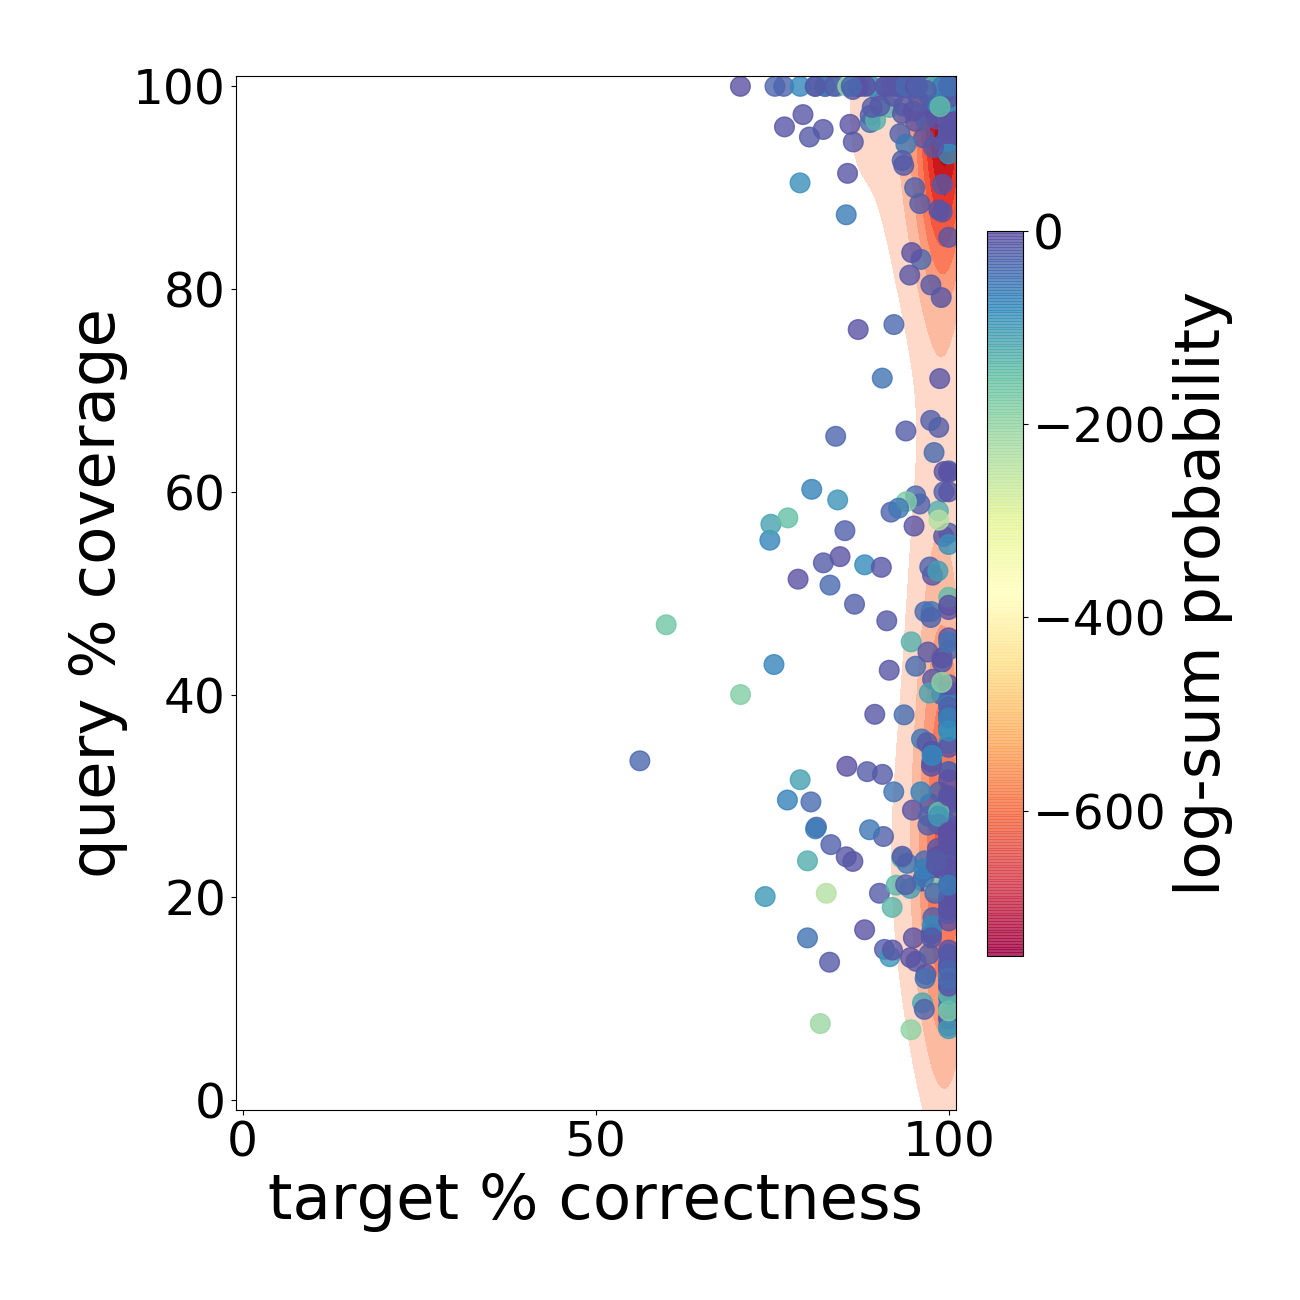
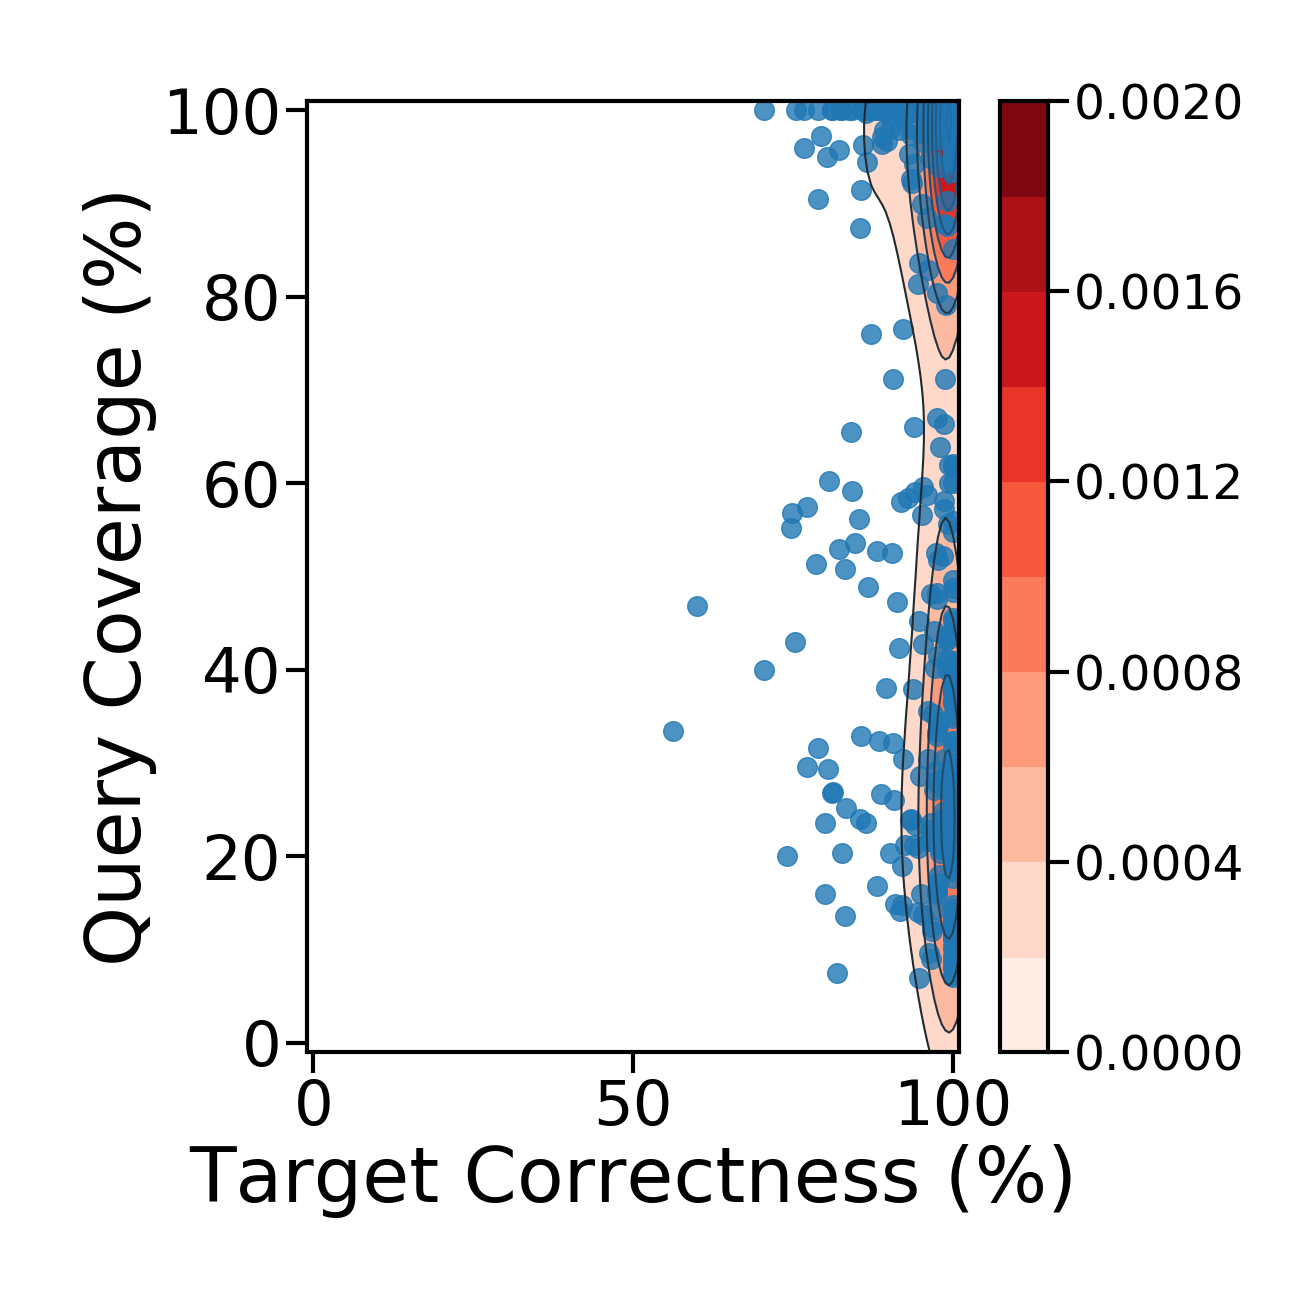
Improve figures
1) Better axis labels
2) Colour bar for probability density
3) Thicker lines
4) More clear contours

diff --git a/lib/data/helper_scripts/data_crunching/wrangle_csv.py b/lib/data/helper_scripts/data_crunching/wrangle_csv.py
@@ -1,5 +1,6 @@
 import os
 
+import matplotlib as mpl
 import matplotlib.pyplot as plt
 import numpy as np
 import pandas as pd
@@ -10,13 +11,18 @@ import utils.directory_utils as utils
 correctness_threshold = 0.7
 distance_threshold = 20
 prediction_length = 750
-primary_text_font_size = 45
-secondary_text_font_size = 35
+primary_text_font_size = 55
+secondary_text_font_size = 45
 
-if os.name == 'nt':
-    base_path = "E:\\Users\\Documents\\School Year 18-19\\Term 1\\CPSC 449\\Sealer_NN\\lib\\app\\helper_scripts\\data_crunching\\"
-else:
-    base_path = "/home/echen/Desktop/Projects/Sealer_NN/lib/app/helper_scripts/data_crunching/"
+axiswidth = 3
+ticksize = 15
+mpl.rcParams['axes.linewidth'] = axiswidth
+mpl.rcParams['xtick.major.size'] = ticksize
+mpl.rcParams['xtick.major.width'] = axiswidth
+mpl.rcParams['ytick.major.size'] = ticksize
+mpl.rcParams['ytick.major.width'] = axiswidth
+
+base_path = "E:\\Users\\Documents\\School_Year_18-19\\Term_1\\CPSC_449\\Sealer_NN\\lib\\data\\helper_scripts\\data_crunching\\"
 
 def evaluate_gap(df, predict_from_left):
     query_coverage = []
@@ -80,20 +86,20 @@ def plot_comparison_scatter(data, file_path):
     x = data["target_gap_correctness"] * 100
     y = data["target_correctness"] * 100
 
-    sns.kdeplot(x, y, cmap="Reds", shade=True, shade_lowest=False)
-    points = plt.scatter(x, y, s=200, alpha=0.8)
+    sns.kdeplot(x, y)
+    sns.kdeplot(x, y, cmap="Reds", shade=True, shade_lowest=False, cbar=True)
+    plt.scatter(x, y, s=200, alpha=0.8)
 
     plt.xlim((-1, 101))
     plt.ylim((-1, 101))
-    plt.xlabel('GapPredict % correctness')
-    plt.ylabel('Sealer % correctness')
+    plt.xlabel('GapPredict Correctness (%)')
+    plt.ylabel('Sealer Correctness (%)')
 
     plt.tight_layout()
     fig = plt.savefig(file_path)
     plt.close(fig)
 
 def plot_scatter(data, file_path):
-    cbar_text_font_size = 35
     plt.rc('xtick', labelsize=secondary_text_font_size)
     plt.rc('ytick', labelsize=secondary_text_font_size)
     font = {
@@ -108,18 +114,16 @@ def plot_scatter(data, file_path):
     x = data["target_gap_correctness"]*100
     y = data["query_gap_coverage"]*100
 
-    sns.kdeplot(x, y, cmap="Reds", shade=True, shade_lowest=False)
-    points = plt.scatter(x, y, c=data["log-sum-probability"], alpha=0.8, s=200, cmap="Spectral")
+    sns.kdeplot(x, y)
+    ax = sns.kdeplot(x, y, cmap="Reds", shade=True, shade_lowest=False, cbar=True)
+    ax.figure.axes[-1].tick_params(axis='both', which='major', labelsize=35)
 
-    cbar = plt.colorbar(points, fraction=0.046, pad=0.04)
-    cbar.ax.tick_params(labelsize=cbar_text_font_size)
-    cbar.set_label("log-sum probability")
+    plt.scatter(x, y, alpha=0.8, s=200)
 
-    plt.clim(0, -750)
     plt.xlim((-1, 101))
     plt.ylim((-1, 101))
-    plt.xlabel('target % correctness')
-    plt.ylabel('query % coverage')
+    plt.xlabel('Target Correctness (%)')
+    plt.ylabel('Query Coverage (%)')
 
     plt.tight_layout()
     fig = plt.savefig(file_path)
@@ -165,14 +169,22 @@ def compute_metrics(gap_left, gap_right, left_subflank, right_subflank, id):
     fixed_pass = columns_to_plot[(columns_to_plot.is_fixed == 1) & (columns_to_plot.gap_pass == 1)]
     fixed_fail = columns_to_plot[(columns_to_plot.is_fixed == 1) & (columns_to_plot.gap_pass == 0)]
     total_fixed = len(fixed_pass) + len(fixed_fail)
+    fixed_zero_pass = fixed_pass[(fixed_pass.query_gap_coverage < 0.05) & (fixed_pass.target_gap_correctness < 0.05)]
+    fixed_zero_fail = fixed_fail[(fixed_fail.query_gap_coverage < 0.05) & (fixed_fail.target_gap_correctness < 0.05)]
     print("Fixed Pass = " + str(len(fixed_pass)) + "/" + str(total_fixed))
     print("Fixed Fail = " + str(len(fixed_fail)) + "/" + str(total_fixed))
+    print("Fixed Zero Pass = " + str(len(fixed_zero_pass)) + "/" + str(len(fixed_pass)))
+    print("Fixed Zero Fail = " + str(len(fixed_zero_fail)) + "/" + str(len(fixed_fail)))
 
     unfixed_pass = columns_to_plot[(columns_to_plot.is_fixed == 0) & (columns_to_plot.gap_pass == 1)]
     unfixed_fail = columns_to_plot[(columns_to_plot.is_fixed == 0) & (columns_to_plot.gap_pass == 0)]
+    unfixed_zero_pass = unfixed_pass[(unfixed_pass.query_gap_coverage < 0.05) & (unfixed_pass.target_gap_correctness < 0.05)]
+    unfixed_zero_fail = unfixed_fail[(unfixed_fail.query_gap_coverage < 0.05) & (unfixed_fail.target_gap_correctness < 0.05)]
     total_unfixed = len(unfixed_pass) + len(unfixed_fail)
     print("Unfixed Pass = " + str(len(unfixed_pass)) + "/" + str(total_unfixed))
     print("Unfixed Fail = " + str(len(unfixed_fail)) + "/" + str(total_unfixed))
+    print("Unfixed Zero Pass = " + str(len(unfixed_zero_pass)) + "/" + str(len(unfixed_pass)))
+    print("Unfixed Zero Fail = " + str(len(unfixed_zero_fail)) + "/" + str(len(unfixed_fail)))
 
     delimiter = utils.get_terminal_directory_character()
 

diff --git a/lib/data/helper_scripts/data_crunching/wrangle_sealer.py b/lib/data/helper_scripts/data_crunching/wrangle_sealer.py
@@ -1,5 +1,6 @@
 import os
 
+import matplotlib as mpl
 import matplotlib.pyplot as plt
 import numpy as np
 import pandas as pd
@@ -7,10 +8,15 @@ import seaborn as sns
 
 import utils.directory_utils as utils
 
-if os.name == 'nt':
-    base_path = "E:\\Users\\Documents\\School Year 18-19\\Term 1\\CPSC 449\\Sealer_NN\\lib\\app\\helper_scripts\\data_crunching\\"
-else:
-    base_path = "/home/echen/Desktop/Projects/Sealer_NN/lib/app/helper_scripts/data_crunching/"
+base_path = "E:\\Users\\Documents\\School_Year_18-19\\Term_1\\CPSC_449\\Sealer_NN\\lib\\data\\helper_scripts\\data_crunching\\"
+
+axiswidth = 3
+ticksize = 15
+mpl.rcParams['axes.linewidth'] = axiswidth
+mpl.rcParams['xtick.major.size'] = ticksize
+mpl.rcParams['xtick.major.width'] = axiswidth
+mpl.rcParams['ytick.major.size'] = ticksize
+mpl.rcParams['ytick.major.width'] = axiswidth
 
 def transform_dataframe(df):
     df['total_percent_id'] = (df.matches/df.total_length).fillna(0)
@@ -18,10 +24,10 @@ def transform_dataframe(df):
     df['target_correctness'] = (df.total_percent_id * df.coverage * 100).fillna(0)
 
 def plot_box(data, file_path):
-    primary_text_font_size = 45
-    secondary_text_font_size = 35
+    primary_text_font_size = 55
+    secondary_text_font_size = 45
     linewidth = 6
-    rotation = 45
+    rotation = 0
     plt.rc('xtick', labelsize=secondary_text_font_size)
     plt.rc('ytick', labelsize=secondary_text_font_size)
     font = {
@@ -41,9 +47,9 @@ def plot_box(data, file_path):
 
     ax = sns.boxplot(data=data, x="fixed_status", y="target_correctness", linewidth=linewidth, flierprops=flierprops)
     ax.set_xticklabels(ax.get_xticklabels(), rotation=rotation)
-    plt.ylim((-5, 100))
-    plt.xlabel('filled_with_all_reads')
-    plt.ylabel('target % correctness')
+    plt.ylim((-5, 101))
+    plt.xlabel('Gap Reads Source')
+    plt.ylabel('Target Correctness (%)')
 
     plt.tight_layout()
     fig = plt.savefig(file_path)
@@ -61,10 +67,10 @@ fixed = columns_to_plot[(columns_to_plot.is_fixed == 1)]
 unfixed = columns_to_plot[(columns_to_plot.is_fixed == 0)]
 joined_fixed = pd.merge(fixed, gap_fill_df, on=["gap_id", "is_fixed"], how="right")
 joined_fixed = joined_fixed[~np.isnan(joined_fixed.target_correctness)]
-joined_fixed["fixed_status"] = "filled"
+joined_fixed["fixed_status"] = "All"
 joined_unfixed = pd.merge(unfixed, gap_fill_df, on=["gap_id", "is_fixed"], how="right")
 joined_unfixed = joined_unfixed[~np.isnan(joined_unfixed.target_correctness)]
-joined_unfixed["fixed_status"] = "unfilled"
+joined_unfixed["fixed_status"] = "Individual"
 full_data = joined_fixed.append(joined_unfixed, ignore_index=True)
 
 delimiter = utils.get_terminal_directory_character()
